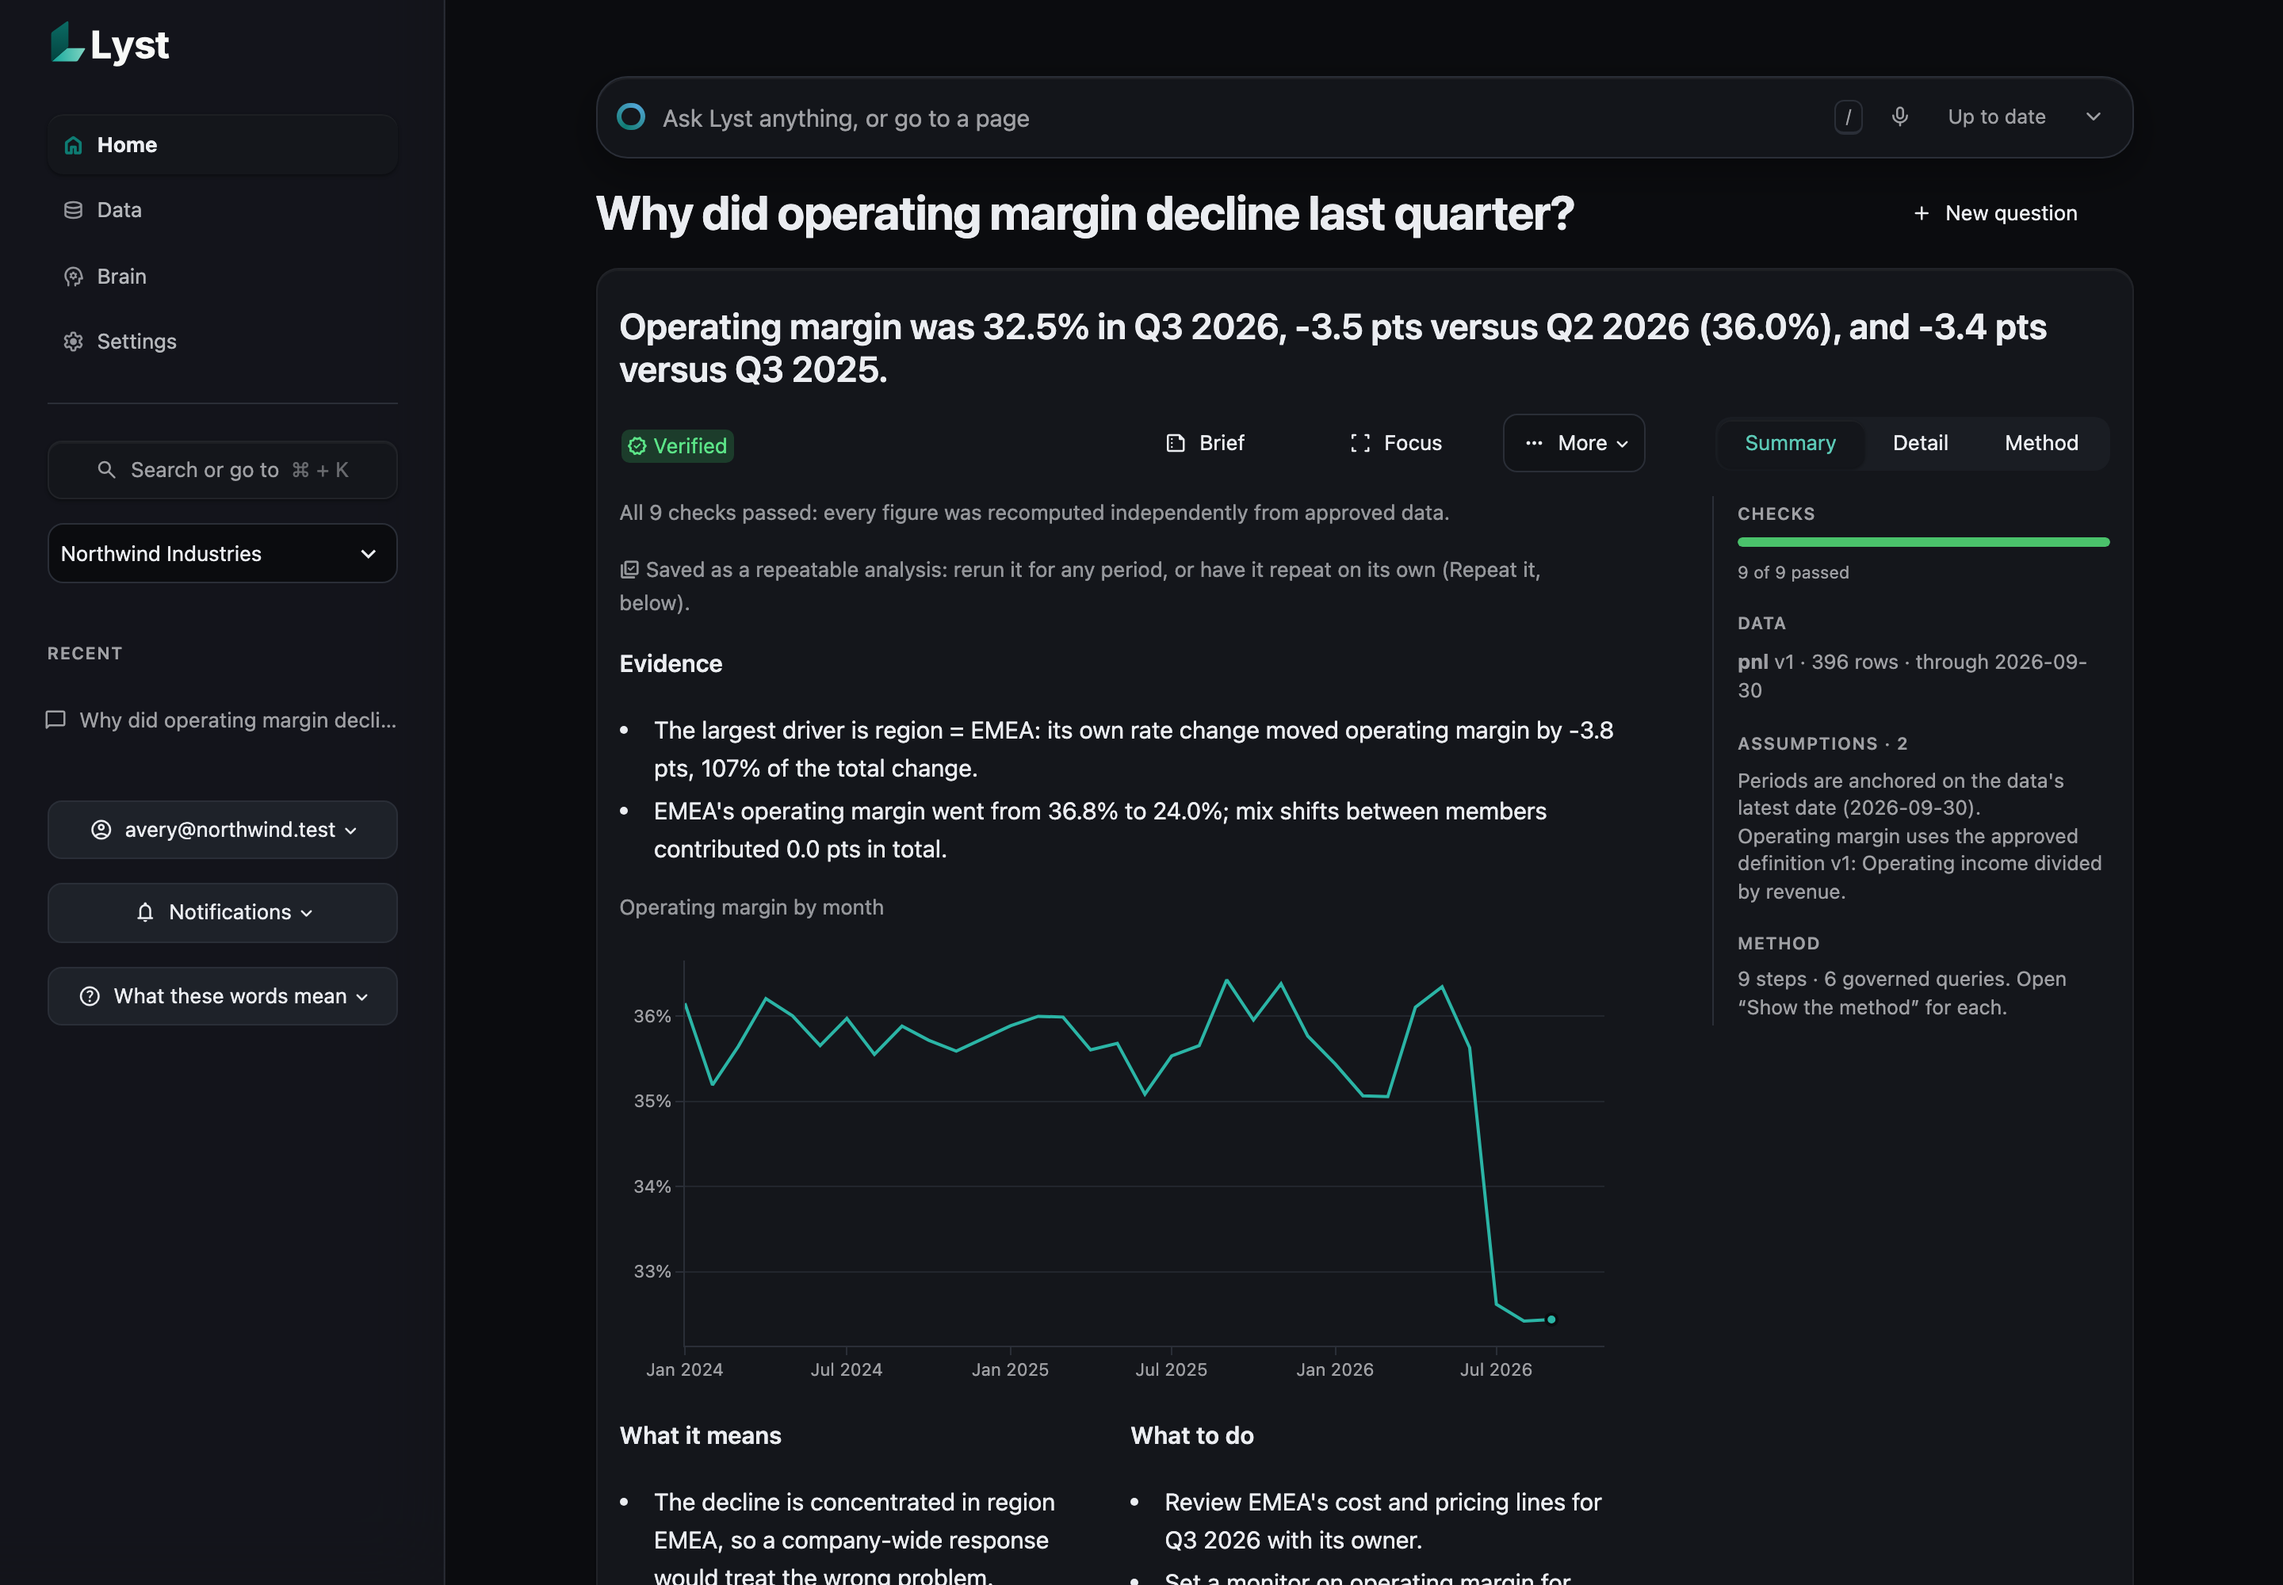
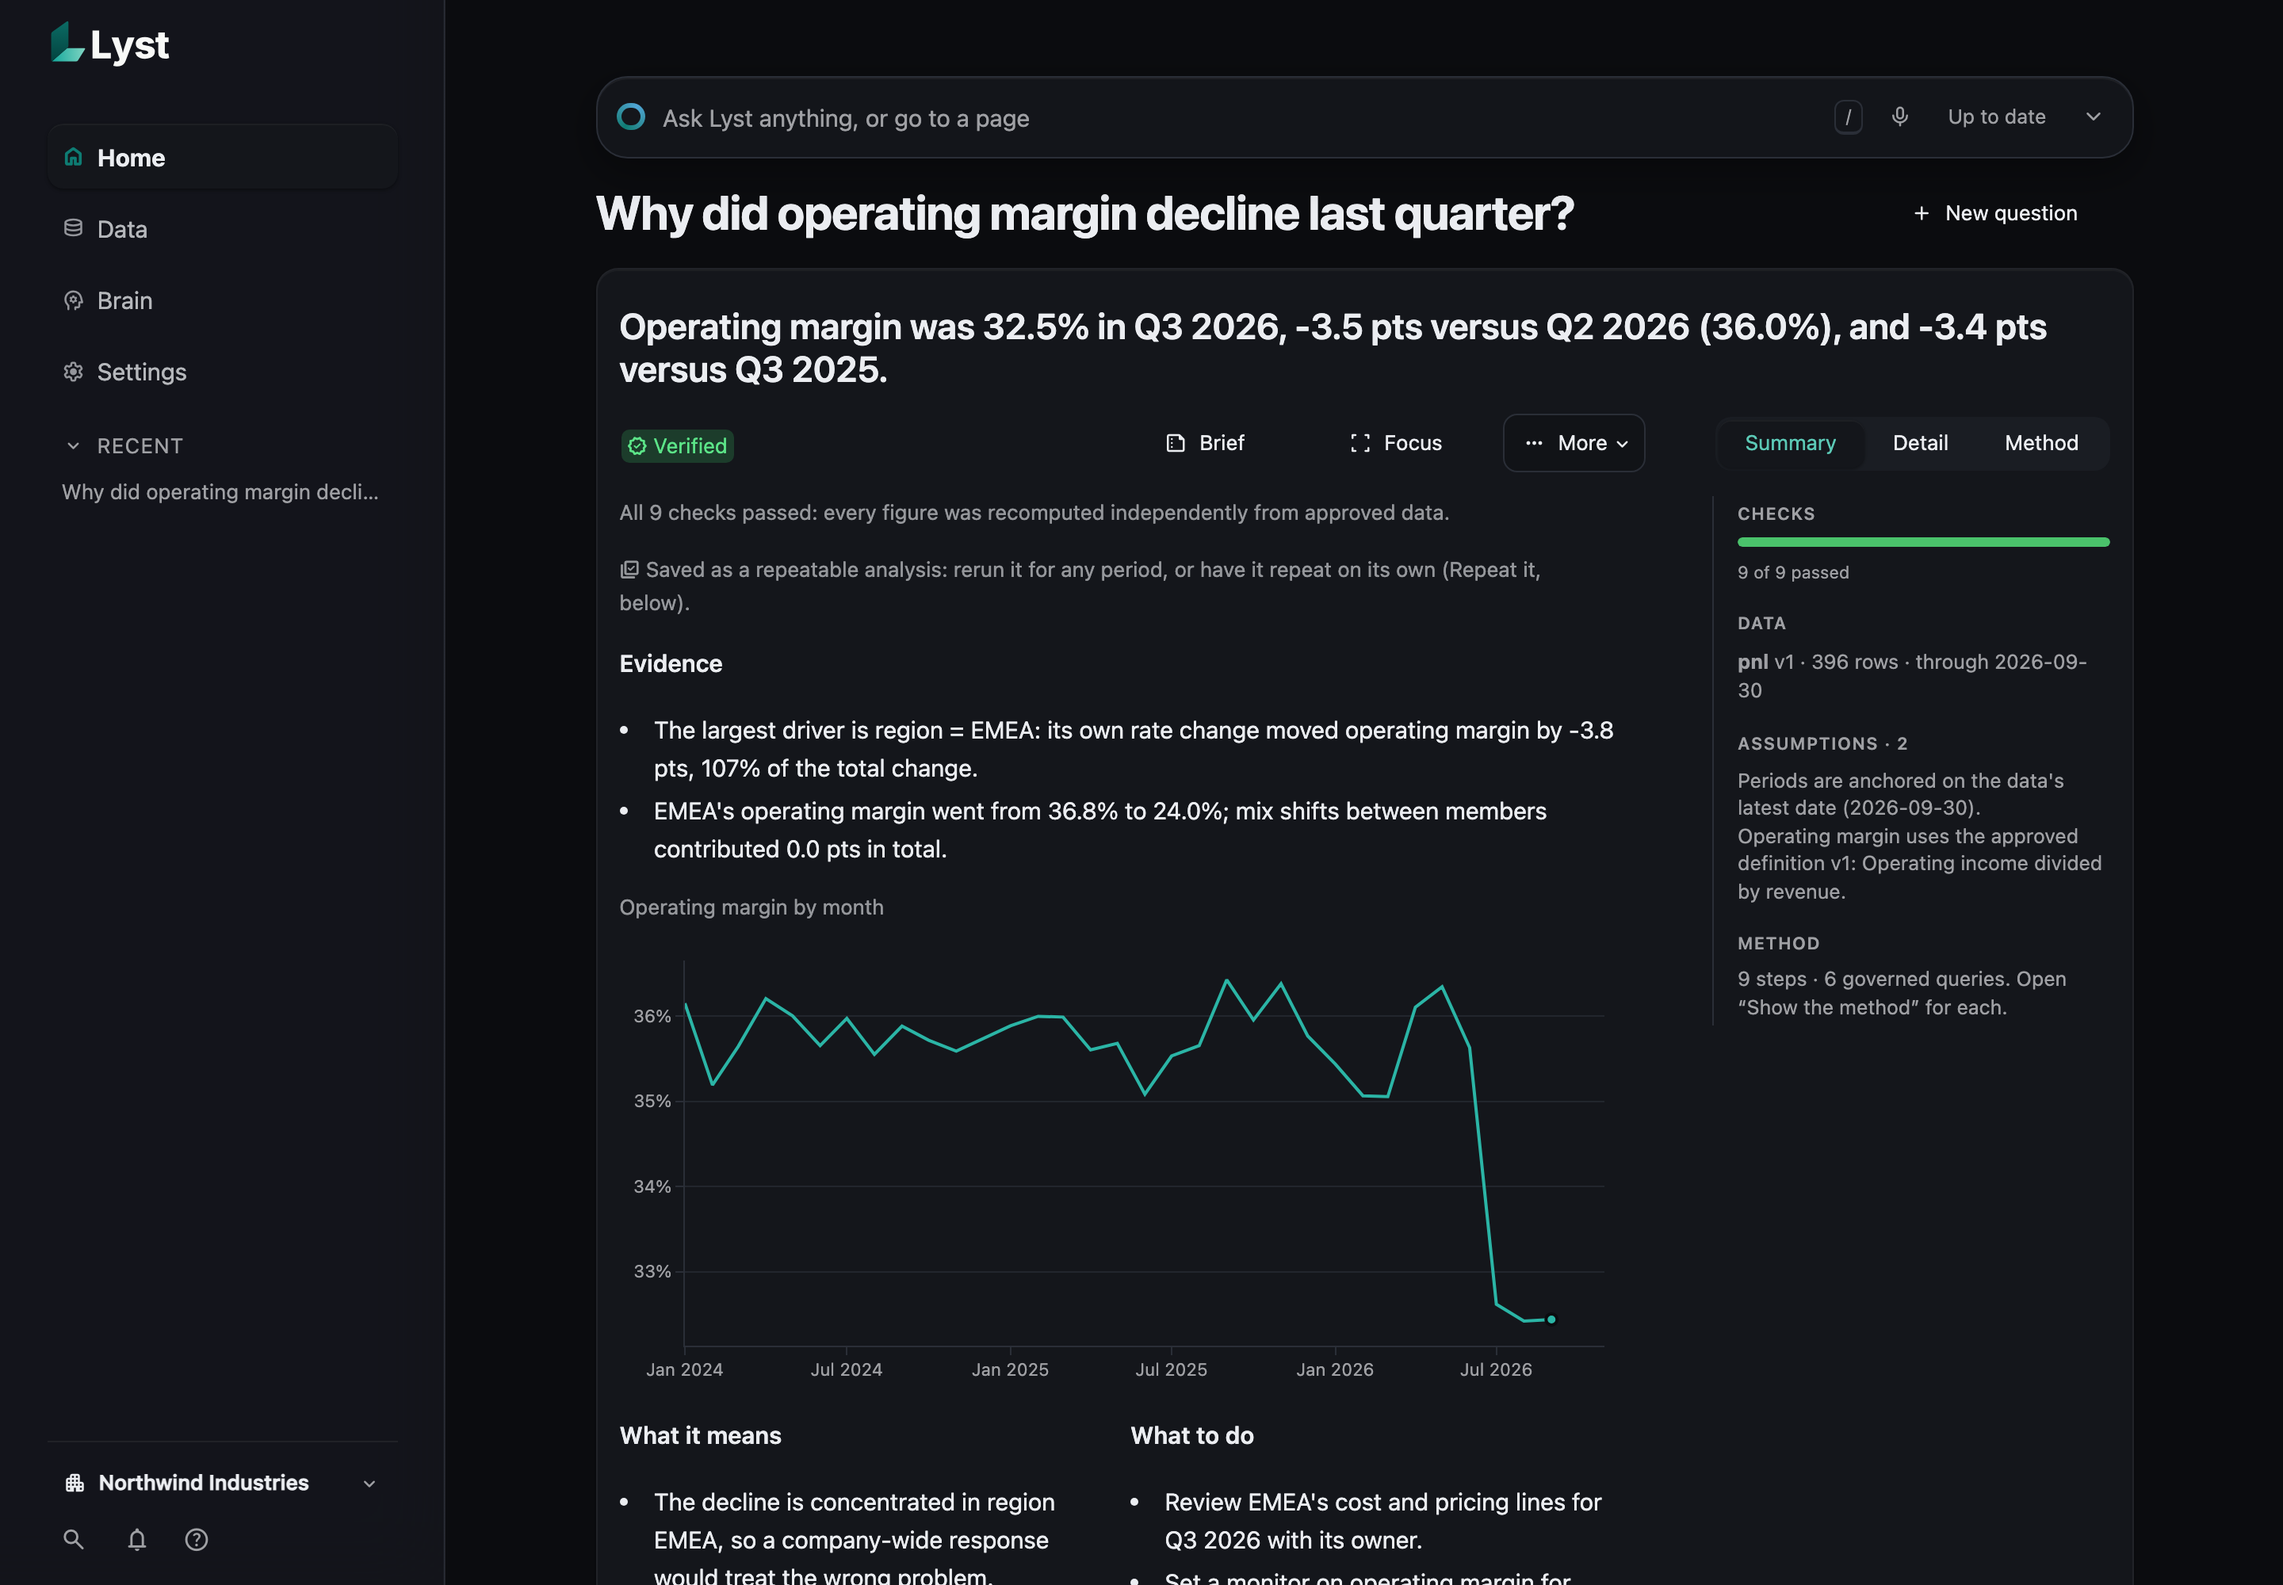
README: conversational replies and offers (#151, #153), complete downloads with charts (#154), a calm sidebar (#152), Refine wording (#150), tokens per step (#148)

diff --git a/README.md b/README.md
@@ -96,8 +96,9 @@ board**, with Suggested, Needs you, In progress and Done, scoped to the page wit
 a card to open it, hold it (or press M) for its actions, or drag it to another column to propose that move, with
 each column saying what a drop would do; the keyboard works too (arrows, and Space to pick up and drop), every
 change asks for confirmation and goes through the usual approvals and permissions, and viewers can only open
-cards. The sidebar holds **Search or go to** (⌘K), your four most recent questions with their live status,
-notifications, and a "What these words mean" glossary.
+cards. The sidebar stays calm: the four areas lead, Pinned and Recent fold away as quiet one-line links (only a
+status worth noticing gets an icon), and one foot holds a workspace menu (account, role, switcher, sign out) and
+three quiet icons for search (Ctrl/⌘+K opens the palette from anywhere), notifications and the glossary.
 
 | Area | What you do there |
 |---|---|
@@ -126,10 +127,11 @@ Breakdown answers show their split as a chart.
 
 ### What Lyst makes is an artifact
 
-Dashboards, charts, briefings, slides, workbooks and saved analyses appear as previews drawn from their own content,
-and open in an immersive viewer made for each kind: an interactive dashboard with a period range, slides as slides,
-a workbook sheet by sheet, a PDF page by page. Inspect the evidence behind any of them, ask Lyst to refine it in
-words, see its versions, pin it to your sidebar, and return exactly where you were. Every chart in an answer
+Dashboards, charts, briefings, slides, workbooks and saved analyses appear as previews drawn from their own
+content, and open in an immersive viewer made for each kind: an interactive dashboard with a period range, slides
+as slides, a workbook sheet by sheet, a PDF page by page. Inspect the evidence behind any of them, ask Lyst to
+refine it in words ("break that down by region", "compare it to last year", "every Monday", however you phrase or
+quote it), see its versions, pin it to your sidebar, and return exactly where you were. Every chart in an answer
 appears under **Made in this answer**, Data › Dashboards is the gallery of everything made, and ⌘K finds artifacts
 by title.
 
@@ -173,6 +175,21 @@ way; and the morning brief and weekly review are produced on request, not yet on
   </tr>
 </table>
 
+### Talk to it like a colleague
+
+Not every question needs a number. Ask what exists, how to do something, what a metric means, or just say hello,
+and Lyst replies in conversation from what the workspace actually holds (dashboards, reports, datasets, approved
+metrics, rules, watches, repeatable analyses), read with your permissions. A reply computes nothing, so it is never
+marked Verified and carries no number a model made up; it says so in one line. When it can help, it makes an offer
+("Want me to?"), and **yes**, "go ahead", "the second one" or "2" runs that offer through the same pipeline, roles
+and approvals as if you had typed it. Replies follow the last few questions and answers, and a figure repeated from
+them must come from those checked answers. A question about figures that names no approved metric is no longer
+answered with the nearest one: Lyst says which metrics exist and how to add one.
+
+<p align="center">
+  <img src="docs/images/conversation.png" alt="A conversational reply: no dashboard exists yet, an offer to build an Executive overview, marked as a reply from what is in the workspace with nothing computed" width="75%">
+</p>
+
 ### Every answer: Summary, Detail, Method, and a Brief
 
 Answers open as a canvas: the answer beside an **evidence rail** showing which checks passed, the data and version
@@ -189,12 +206,14 @@ briefing, ready to forward; executive requests lead with it. Limitations stay vi
 **More**, beside Brief and Focus, lists what Lyst can do with this answer right now: break it down, compare it,
 explain it, make a dashboard, repeat it (marked as needing approval) or save a briefing. Under each answer you can
 act on it: **Watch this metric** sets up a monitor, **Repeat it** reruns the saved analysis on a schedule,
-**Download** gives a PDF briefing, a deck, an Excel workbook or Markdown, **Share** assigns it to a colleague or
-asks for a review, **Discuss** opens its thread, and **How this ran** shows each step, query and model call with
-its timing. Four questions sit under every answer: **How was this figured? · Where is it from? · What could change
-it? · Can it be repeated?** Each opens the engine's own explanation from its records, and the last reruns the
-recorded queries under your current permissions. Below them, **Next steps** offers up to three follow-ups grounded
-in what the answer found, each with Run now (or Watch it), Later and Why.
+**Download** gives a PDF briefing, a deck, an Excel workbook or Markdown, each carrying everything the answer
+shows in the same order, charts included (native, editable charts in Excel and slides, vector charts in the PDF,
+an embedded chart with its data in Markdown), **Share** assigns it to a colleague or asks for a review,
+**Discuss** opens its thread, and **How this ran** shows each step, query and model call with its timing and
+tokens. Four questions sit under every answer: **How was this figured? · Where is it from? · What could change it?
+· Can it be repeated?** Each opens the engine's own explanation from its records, and the last reruns the recorded
+queries under your current permissions. Below them, **Next steps** offers up to three follow-ups grounded in what
+the answer found, each with Run now (or Watch it), Later and Why.
 
 <p align="center">
   <img src="docs/images/next-steps.png" alt="Under an answer: the act bar, the four questions about the answer, What if and Compare options, and three Next steps with Run now, Later and Why" width="80%">
